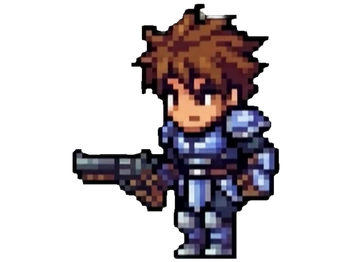
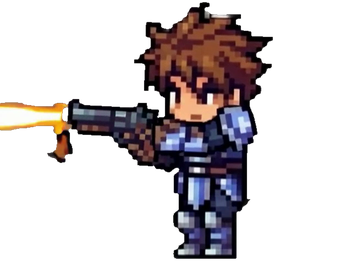
adasd

Changed region(s): [[0.0, 0.0, 0.8125, 0.8244]]

diff --git a/Obscure Defiled/character_functions/Hero.hpp b/Obscure Defiled/character_functions/Hero.hpp
@@ -194,13 +194,13 @@ struct Hero
                 character_attack_L_images.push_back(iLoadImage(a));
             }
         }else if(level == 2){
-            for (int i = 0; i <= 35; i++)
+            for (int i = 0; i <= 12; i++)
             {
                 char a[200];
                 sprintf_s(a, "resources/Main_Character/Normal/With Handgun/Shooting/Right/frame_%03d.png", i);
                 character_attack_R_images.push_back(iLoadImage(a));
             }
-            for (int i = 0; i <= 35; i++)
+            for (int i = 1; i <= 12; i++)
             {
                 char a[200];
                 sprintf_s(a, "resources/Main_Character/Normal/With Handgun/Shooting/Left/frame_%03d.png", i);
@@ -324,11 +324,11 @@ struct Hero
         int currentIdx = attack_index;
         if (isright)
         {
-            iShowImage(characterPosition_X, characterPosition_Y + 10, 152, 152, character_attack_R_images[currentIdx]);
+            iShowImage(characterPosition_X, characterPosition_Y + (level == 1 ? 10 : 0), 152, 152, character_attack_R_images[currentIdx]);
         }
         else
         {
-            iShowImage(characterPosition_X, characterPosition_Y + 10, 152, 152, character_attack_L_images[currentIdx]);
+            iShowImage(characterPosition_X, characterPosition_Y + (level == 1 ? 10 : 0), 152, 152, character_attack_L_images[currentIdx]);
         }
     }
     void show_character_run()

diff --git a/Obscure Defiled/enemy_functions/enemy.hpp b/Obscure Defiled/enemy_functions/enemy.hpp
@@ -150,11 +150,11 @@ struct Enemy
 		cout << " index: " << currentIdx << endl;
         if (isright)
         {
-			iShowImage(enemyPosition_X, enemyPosition_Y, 100, 100, enemy_idle_R_images[currentIdx]);
+			iShowImage(enemyPosition_X, enemyPosition_Y, level==1?100:150, 100, enemy_idle_R_images[currentIdx]);
         }
         else
         {
-			iShowImage(enemyPosition_X, enemyPosition_Y, 100, 100, enemy_idle_L_images[currentIdx]);
+			iShowImage(enemyPosition_X, enemyPosition_Y, level==1?100:150, 100, enemy_idle_L_images[currentIdx]);
         }
     }
     void move_enemy(Hero &hero1)
